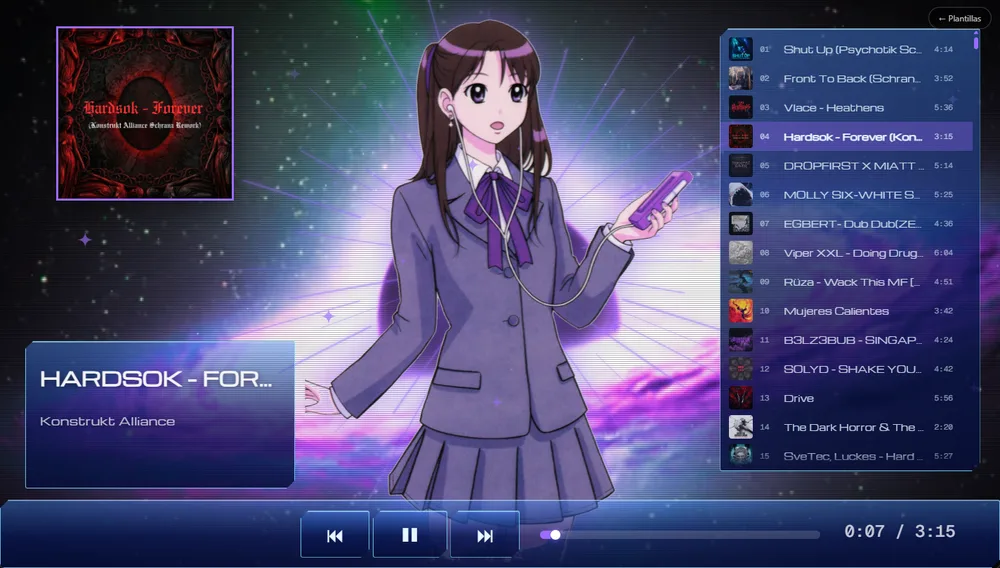
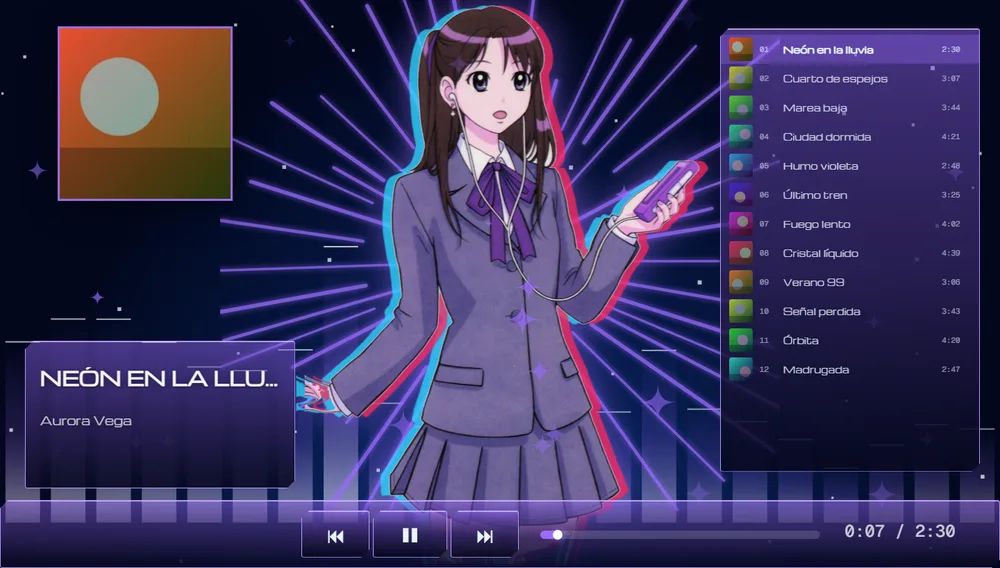
Arregla el agujero negro del 2000s (dibujo corrido, capa oscura vieja, tinte real), miniaturas nuevas y la app recuerda sus ajustes (sin modo privado)

diff --git a/web/agujero.js b/web/agujero.js
@@ -1,7 +1,7 @@
 // Agujero negro retro (fondo de la plantilla 2000s y opción "Agujero negro" de las plantillas propias).
 // Es un CG pintado al estilo de los 2000 dibujado a baja resolución (se ve suave, como en una tele de tubo):
-// gira lento, se acerca con el bajo, el borde del agujero destella con los golpes, y lleva líneas de escaneo.
-// crearAgujero(canvas) → { tono(grados, brillo%), dibujar(t, bajo) }
+// se mece lento, se acerca con el bajo, el borde del agujero destella con los golpes, y lleva líneas de escaneo.
+// crearAgujero(canvas) → { tinte(color o "" para el natural, brillo%), dibujar(t, bajo) }
 "use strict";
 function crearAgujero(canvas) {
   const W = 640, H = 360, CX = W * .49, CY = H * .5;
@@ -13,18 +13,21 @@ function crearAgujero(canvas) {
   const cg = crt.getContext("2d"); cg.fillStyle = "rgba(0,0,0,.32)"; for (let y = 0; y < H; y += 2) cg.fillRect(0, y, W, 1);
   const vin = cg.createRadialGradient(CX, CY, H * .35, CX, CY, W * .62); vin.addColorStop(0, "rgba(0,0,0,0)"); vin.addColorStop(1, "rgba(0,0,0,.7)");
   cg.fillStyle = vin; cg.fillRect(0, 0, W, H);
-  let zoom = 1.15, prom = 0, golpe = 0;
+  let zoom = 1.04, prom = 0, golpe = 0, color = "";
   return {
-    tono(grados, brillo = 100) { canvas.style.filter = `hue-rotate(${grados}deg) brightness(${brillo / 100})`; },
+    // el tinte se aplica con el modo "color": conserva luces y sombras del CG y solo cambia el color
+    tinte(c, brillo = 100) { color = c || ""; canvas.style.filter = `brightness(${brillo / 100})`; },
     dibujar(t, bajo) {
       if (!img.complete || !img.naturalWidth) return;
       prom = prom * .94 + bajo * .06; if (bajo > prom * 1.22 + .07) golpe = 1; golpe *= .86;
       const g = canvas.getContext("2d");
-      zoom += ((1.16 + bajo * .1 + golpe * .04) - zoom) * .12;
-      g.save(); g.translate(CX, CY); g.rotate(t * .012); g.scale(zoom, zoom); g.drawImage(img, -CX * 1.08, -CY * 1.08, W * 1.08, H * 1.08); g.restore();
+      zoom += ((1.04 + bajo * .06 + golpe * .03) - zoom) * .12;
+      // balanceo suave: girar de verdad dejaría ver las esquinas
+      g.save(); g.translate(CX, CY); g.rotate(Math.sin(t * .05) * .05); g.scale(zoom, zoom); g.drawImage(img, -CX * 1.08, -CY * 1.08, W * 1.08, H * 1.08); g.restore();
+      if (color) { g.globalCompositeOperation = "color"; g.globalAlpha = .8; g.fillStyle = color; g.fillRect(0, 0, W, H); g.globalAlpha = 1; }
       g.globalCompositeOperation = "lighter";
       const r = H * (.2 + bajo * .08), halo = g.createRadialGradient(CX, CY, r * .55, CX, CY, r * 1.6);
-      halo.addColorStop(0, "rgba(0,0,0,0)"); halo.addColorStop(.35, `rgba(255,170,90,${.1 + bajo * .3 + golpe * .25})`); halo.addColorStop(1, "rgba(0,0,0,0)");
+      halo.addColorStop(0, "rgba(0,0,0,0)"); halo.addColorStop(.35, `rgba(255,170,90,${.04 + bajo * .16 + golpe * .2})`); halo.addColorStop(1, "rgba(0,0,0,0)");
       g.fillStyle = halo; g.fillRect(0, 0, W, H);
       g.fillStyle = "#fff";
       es.forEach(e => { g.globalAlpha = (.3 + .7 * Math.abs(Math.sin(t * (1 + e[2] * 2) + e[0] * 40))) * (.4 + golpe * .6); g.fillRect(Math.round(e[0] * W), Math.round(e[1] * H), 1, 1); });

diff --git a/web/dosmil.html b/web/dosmil.html
@@ -15,7 +15,6 @@
   * { box-sizing: border-box; }
   html, body { margin: 0; height: 100%; overflow: hidden; background: #000; font-family: "Michroma", Tahoma, sans-serif; }
   #tunel { position: fixed; inset: 0; width: 100%; height: 100%; }
-  #nucleoOscuro { position: fixed; inset: 0; pointer-events: none; background: radial-gradient(circle at 50% 42%, rgba(0,0,0,.32), transparent 55%); }
   #titulo { display: none; }   /* el título se muestra en la marquesina */
 
   /* ---- Metal cepillado con relieve, compartido por el equipo, la playlist y los botones ---- */
@@ -164,10 +163,10 @@ const agujero = crearAgujero(document.getElementById("tunel"));
 const $ = (id) => document.getElementById(id);
 const raiz = document.documentElement.style;
 const SKINS = {
-  "Plata":     { metal: "#c3c9d3", grabado: "#3b4250", lcd: "#06131f", tinta: "#7fdcff", acento: "#3fa9ff", tono: 180 },
-  "Grafito":   { metal: "#3b3e46", grabado: "#aeb2bb", lcd: "#140a00", tinta: "#ffb000", acento: "#ff6a00", tono: 0 },
-  "LCD verde": { metal: "#b4bba6", grabado: "#3d4535", lcd: "#a3b585", tinta: "#16220e", acento: "#5bd13a", tono: 95 },
-  "Azul":      { metal: "#2b4fae", grabado: "#d2deff", lcd: "#000a18", tinta: "#e6f3ff", acento: "#00e5ff", tono: 200 },
+  "Plata":     { metal: "#c3c9d3", grabado: "#3b4250", lcd: "#06131f", tinta: "#7fdcff", acento: "#3fa9ff", tinte: "#4aa8ff" },
+  "Grafito":   { metal: "#3b3e46", grabado: "#aeb2bb", lcd: "#140a00", tinta: "#ffb000", acento: "#ff6a00", tinte: "" },
+  "LCD verde": { metal: "#b4bba6", grabado: "#3d4535", lcd: "#a3b585", tinta: "#16220e", acento: "#5bd13a", tinte: "#7ad13a" },
+  "Azul":      { metal: "#2b4fae", grabado: "#d2deff", lcd: "#000a18", tinta: "#e6f3ff", acento: "#00e5ff", tinte: "#00d5ff" },
 };
 const rgb = (h) => [1, 3, 5].map(i => parseInt(h.slice(i, i + 2), 16));
 const luz = ([r, g, b]) => (0.299 * r + 0.587 * g + 0.114 * b) / 255;
@@ -176,7 +175,7 @@ let skin = SKINS.Plata;
 function usarSkin(nombre) {
   skin = SKINS[nombre] || SKINS.Plata;
   for (const k of ["metal", "grabado", "lcd", "tinta", "acento"]) raiz.setProperty("--" + k, skin[k]);
-  agujero.tono(skin.tono, Props.extra("dosmil", "tunel"));
+  agujero.tinte(skin.tinte, Props.extra("dosmil", "tunel"));
   // LCD de fondo oscuro: la tinta brilla. LCD claro (verde): tinta opaca, sin brillo.
   raiz.setProperty("--brilloLcd", luz(rgb(skin.tinta)) > luz(rgb(skin.lcd)) ? "0 0 6px var(--tinta)" : "none");
   document.querySelectorAll("#skins button").forEach(b => b.classList.toggle("elegida", b.dataset.s === nombre));

diff --git a/web/plantillas-propias.js b/web/plantillas-propias.js
@@ -51,7 +51,7 @@ const Propias = (() => {
       fondo: { tipo: "burbujas", color: "#123a00", brillo: 100 }, estilo: { panel: "gel", acento: "#9be22a", fuente: "Fredoka" },
       piezas: () => armar([["cabeza", [24, 2, 42, 95]], ["lista", [70, 5, 27, 82]], ["volumen", [34, 95, 24, 3.5]]]) },
     dosmil: { nombre: "2000s", reglas: { requeridas: ["equipo"], nota: "El equipo de metal es el reproductor: se puede mover, agrandar y cambiar de skin. Trae pantalla LCD, botones, perilla y barra, así que no se agregan sueltos." },
-      fondo: { tipo: "agujero", color: "#000000", tono: 180, brillo: 90 }, estilo: { panel: "metal", acento: "#3fa9ff", fuente: "Michroma" },
+      fondo: { tipo: "agujero", color: "#000000", tinte: "#4aa8ff", brillo: 90 }, estilo: { panel: "metal", acento: "#3fa9ff", fuente: "Michroma" },
       piezas: () => armar([["lista", [72, 3, 26, 58]], ["equipo", [5, 66, 67, 31]]]) },
     ambiente: { nombre: "Ambiente", reglas: { requeridas: ["titulo", "botones", "barra"], nota: COMUN },
       fondo: { tipo: "caratula", color: "#08080a", desenfoque: 70, brillo: 100 }, estilo: { panel: "liso", acento: "#9aa4b8", acentoAuto: true, fuente: "Geist" },

diff --git a/web/esquema.js b/web/esquema.js
@@ -10,7 +10,7 @@ const ESQUEMA = {
     "angulo": { "t": "num", "n": "Ángulo del degradado", "min": 0, "max": 360, "def": 160, "u": "°" },
     "desenfoque": { "t": "num", "n": "Desenfoque (carátula)", "min": 10, "max": 140, "def": 70, "u": " px" },
     "brillo": { "t": "num", "n": "Brillo", "min": 20, "max": 130, "def": 100, "u": " %" },
-    "tono": { "t": "num", "n": "Tono (agujero negro)", "min": -180, "max": 180, "def": 0, "u": "°" },
+    "tinte": { "t": "color", "n": "Tinte del agujero negro", "def": "", "vacio": true },
     "imagen": { "t": "imagen" }
   },
   "estilo": {

diff --git a/web/libre.html b/web/libre.html
@@ -171,7 +171,7 @@ function fondo() {
     }); return;
   }
   if (tipo === "agujero") {
-    const lienzo = document.createElement("canvas"); c.appendChild(lienzo); const a = crearAgujero(lienzo); a.tono(fv("tono"));
+    const lienzo = document.createElement("canvas"); c.appendChild(lienzo); const a = crearAgujero(lienzo); a.tinte(fv("tinte"));
     R.cadaCuadro((t) => a.dibujar(t, R.energia(R.espectro(), 1, 8))); return;
   }
   if (tipo === "caratula") {

diff --git a/app.py b/app.py
@@ -334,7 +334,8 @@ def main():
     puerto = servidor.iniciar(api.cfg.get("carpetas") or [])
     webview.create_window("Reproductor", f"http://127.0.0.1:{puerto}/inicio.html", js_api=api,
                           width=1280, height=800, min_size=(900, 600), background_color="#070405")
-    webview.start(debug="--debug" in sys.argv)
+    # Sin modo privado: así el navegador interno recuerda la plantilla elegida, Personalizar y las plantillas propias
+    webview.start(debug="--debug" in sys.argv, private_mode=False, storage_path=str(Path.home() / ".visualizador" / "navegador"))
 
 
 if __name__ == "__main__":
